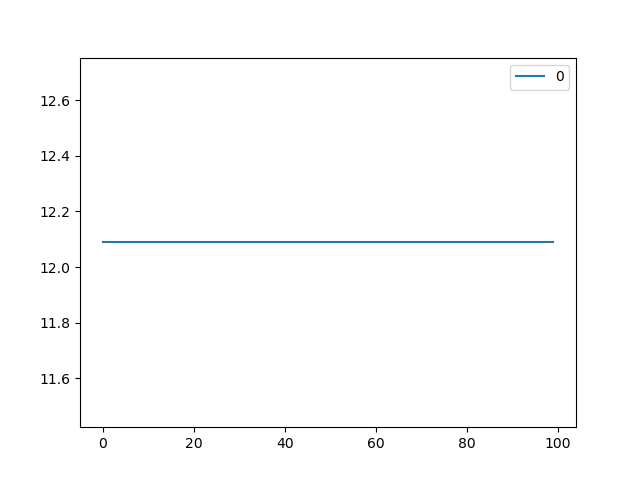
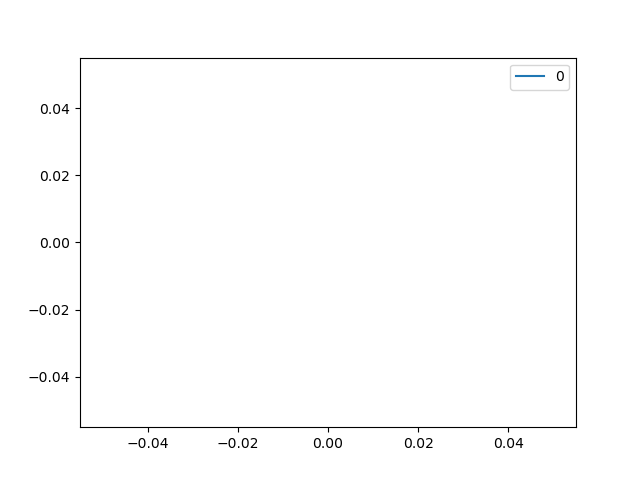
implementing adam algo

diff --git a/src/multilayerPerceptron.py b/src/multilayerPerceptron.py
@@ -9,6 +9,7 @@ def relu(x, d=False):
         x[x < 0] = 0
     return x
 
+
 def softmax(x, d=False):
     """Compute the softmax of vector x in a numerically stable way."""
     exps = np.exp(x - np.max(x))
@@ -25,11 +26,20 @@ def sigmoid(z, d=False):
 
 class Layer:
     def __init__(self, number_of_features, activation_units,
-                 layer_type, activation_function=sigmoid):
+                 layer_type, activation_function=sigmoid, rate=0.1):
         self.weight = np.random.rand(activation_units, number_of_features) * 0.01
+        #xavier initialisation
+        # self.weight = np.random.rand(activation_units, number_of_features) * np.sqrt(1.0/activation_units)
         self.bias = np.zeros((activation_units, 1))
         self.activation_function = activation_function
         self.type = layer_type
+        self.rate = rate
+
+        self.vdW = np.zeros(self.weight.shape)
+        self.vdb = np.zeros(self.bias.shape)
+        self.sdW = np.zeros(self.weight.shape)
+        self.sdb = np.zeros(self.bias.shape)
+
         assert(self.weight.shape == (activation_units, number_of_features))
         assert(self.bias.shape == (activation_units, 1))
 
@@ -38,57 +48,77 @@ class Layer:
         assert(self.z.shape == (self.weight.shape[0], x.shape[1]))
         return self.z
 
-    def linear_backward(self, A_prev):
-        dZ = self.activation_function(A_prev, d=True)
-        m = A_prev.shape[0]
-        dW = np.dot(dZ, self.A_prev.T) / m
-        db = np.sum(np.matrix(dZ), axis=1) / m
-        dA_prev = np.dot(self.weight.T, dZ)
-        assert(dA_prev.shape == self.A_prev.shape)
-        assert(dW.shape == self.weight.shape)
-        assert (db.shape == self.bias.shape)
-        return dA_prev, dW, db
-
-    def update_parameters(self, rate, dW, db):
-        self.weight -= rate * dW
-        self.bias -= rate * db
-
     def linear_activation_forward(self, A_prev):
         self.A_prev = A_prev
         self.A = self.activation_function(self.linear_forward(A_prev))
         assert (self.A.shape == (self.weight.shape[0], A_prev.shape[1]))
         return self.A
 
+    def linear_backward(self, A_prev):
+        dZ = self.activation_function(A_prev, d=True)
+        m = A_prev.shape[0]
+        self.dW = np.dot(dZ, self.A_prev.T) / m
+        self.db = np.sum(np.matrix(dZ), axis=1) / m
+        dA_prev = np.dot(self.weight.T, dZ)
+        assert(dA_prev.shape == self.A_prev.shape)
+        assert(self.dW.shape == self.weight.shape)
+        assert (self.db.shape == self.bias.shape)
+        return dA_prev
+
+    # def update_parameters(self):
+    #     self.weight -= self.rate * self.dW
+    #     self.bias -= self.rate * self.db
+
+    def update_parameters(self, n, beta1=0.9, beta2=0.999):
+        epsilon=10e-8
+        vdw = self.vdW /(1-np.power(beta1, n))
+        sdw = self.sdW /(1-np.power(beta2, n))
+
+        vdb = self.vdb /(1-np.power(beta1, n))
+        sdb = self.sdb /(1-np.power(beta2, n))
+
+        self.weight -= self.rate * (vdw / (np.sqrt(sdw) + epsilon))
+        self.bias -= self.rate * (vdb / (np.sqrt(sdb) + epsilon))
+
+    def adam(self, beta1=0.9, beta2=0.999):
+        self.vdW = beta1 * self.vdW + (1 - beta1) * self.dW
+        self.sdW = beta1 * self.sdW + (1 - beta2) * (self.dW**2)
+
+        self.vdb = beta1 * self.vdb + (1 - beta1) * self.db
+        self.sdb = beta1 * self.sdb + (1 - beta2) * (np.power(self.db, 2))
+
+
 class MultilayerPerceptron:
-    def __init__(self, layers, lr=0.1, path="mp.pickle"):
+    def __init__(self, layers, lr=0.001, path="mp.pickle"):
         self.lr = lr
         self.layers = layers
         self.path = path
 
     def loss(self, p, y, eps=1e-15):
         m = y.shape[0]
-        return np.squeeze(np.sum(y * np.log(p+eps) + (1 - y) * np.log(1 - p+eps)) / -m)
+        return np.squeeze(np.sum(y * np.log(p + eps) + (1 - y) * np.log(1 - p + eps)) / -m)
 
     def forward_propagation(self, x):
         for layer in self.layers:
             x = layer.linear_activation_forward(x)
         return x
 
-    def backward_propagation(self, X, Y):
+    def backward_propagation(self, X, Y, n):
         AL = self.forward_propagation(X)
         Y = Y.reshape(AL.shape)
         A_prev = AL-Y
         for i in range(len(self.layers)-1, -1, -1):
-            A_prev, dW, db = self.layers[i].linear_backward(A_prev)
-            self.layers[i].update_parameters(self.lr, dW, db)
+            A_prev = self.layers[i].linear_backward(A_prev)
+            self.layers[i].adam()
+            self.layers[i].update_parameters(n)
         return AL
 
     def load(self):
         with open(self.path, 'rb') as handle:
             self = pickle.load(handle)
+        return self
 
     def save(self):
         with open(self.path, 'wb') as handle:
             pickle.dump(self, handle, protocol=pickle.HIGHEST_PROTOCOL)
-        return 
 

diff --git a/src/preprocessing.py b/src/preprocessing.py
@@ -62,10 +62,10 @@ def train(x_train, y_train):
     epochs = 1_00
     x_len = x_train.shape[1]
     layers = [
-        Layer(x_len, x_len, layer_type="input_layer", activation_function=sigmoid),
-        Layer(x_len, x_len, layer_type="hidden_layer", activation_function=sigmoid),
+        Layer(x_len, 20, layer_type="input_layer", activation_function=sigmoid),
+        Layer(20, 10, layer_type="hidden_layer", activation_function=sigmoid),
         # Layer(x_len, 1, layer_type="output_layer", activation_function=softmax)
-        Layer(x_len, 1, layer_type="output_layer")
+        Layer(10, 1, layer_type="output_layer")
     ]
 
     mp = MultilayerPerceptron(layers)
@@ -74,7 +74,7 @@ def train(x_train, y_train):
         i = np.random.randint(0, x_train.shape[0])
         y = y_train
         x = x_train[i][np.newaxis,:].T
-        p = mp.backward_propagation(x, y[i])
+        p = mp.backward_propagation(x, y[i], epoch)
         # p = mp.backward_propagation(x_train.T, np.array(y_train).T)
         loss = mp.loss(p, np.array(y_train).T)
         losses.append(loss)
@@ -83,7 +83,7 @@ def train(x_train, y_train):
     y = y_train
     x = x_train[i][np.newaxis,:].T
     i = np.random.randint(0, x_train.shape[0])
-    p = mp.backward_propagation(x, y[i])
+    p = mp.backward_propagation(x, y[i], epoch)
     print(f"{i}={p}, should be: {y[i]}")
     pd.DataFrame(losses).plot()
     plt.savefig('loss.png')
